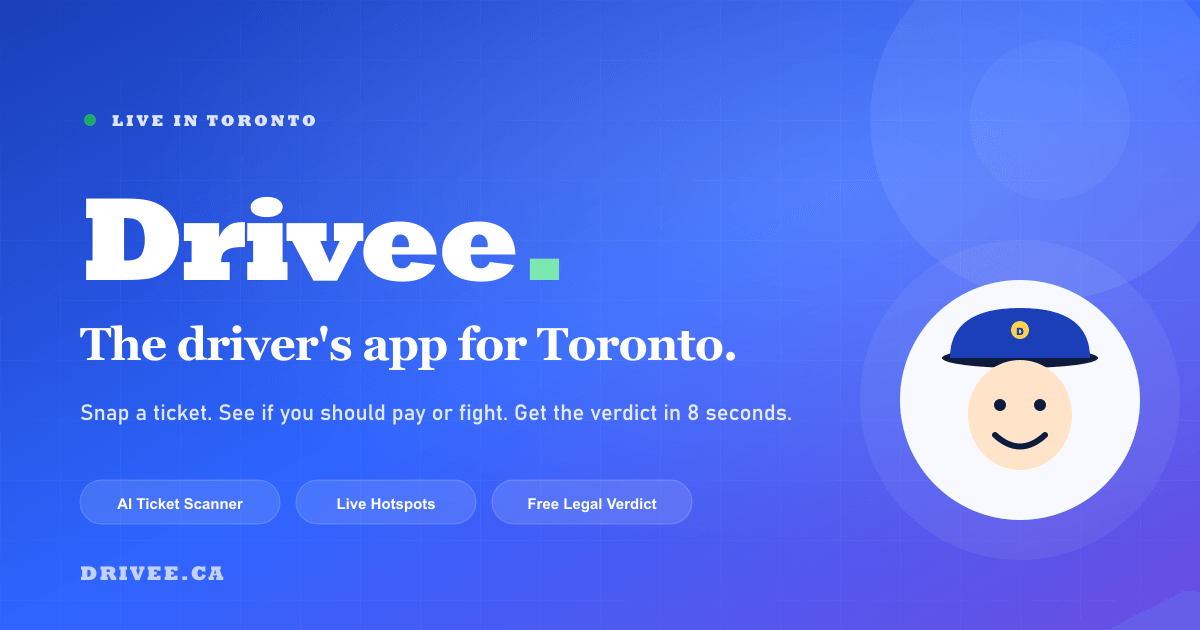
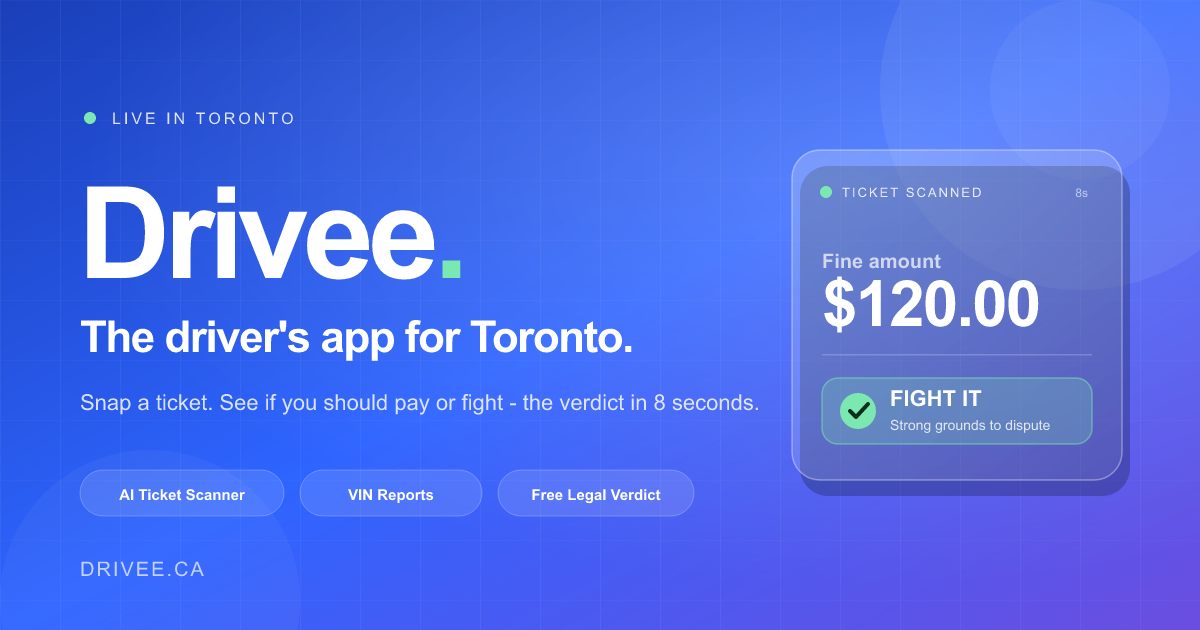
Refresh OG share image: drop mascot for a premium verdict card
- Redesign og-image: remove the cartoon officer, add a frosted-glass
  "ticket scanned -> $120 -> FIGHT IT" verdict card; refreshed pills
  (AI Ticket Scanner / VIN Reports / Free Legal Verdict), short dash
  in the subline. Rendered crisp at exactly 1200x630
- Bump og:image + twitter:image to ?v=2 to bust social/search caches

diff --git a/index.html b/index.html
@@ -62,7 +62,7 @@
   <meta property="og:title" content="Drivee — The driver's app for Toronto" />
   <meta property="og:description" content="Snap a parking or traffic ticket. AI tells you whether to pay or fight. Free, no ads." />
   <meta property="og:url" content="https://www.drivee.ca/" />
-  <meta property="og:image" content="https://www.drivee.ca/og-image.png" />
+  <meta property="og:image" content="https://www.drivee.ca/og-image.png?v=2" />
   <meta property="og:image:width" content="1200" />
   <meta property="og:image:height" content="630" />
   <meta property="og:image:alt" content="Drivee — Smiling parking-officer mascot with the tagline: The driver's app for Toronto." />
@@ -72,7 +72,7 @@
   <meta name="twitter:card" content="summary_large_image" />
   <meta name="twitter:title" content="Drivee — The driver's app for Toronto" />
   <meta name="twitter:description" content="Snap a parking or traffic ticket. AI tells you whether to pay or fight. Free, no ads." />
-  <meta name="twitter:image" content="https://www.drivee.ca/og-image.png" />
+  <meta name="twitter:image" content="https://www.drivee.ca/og-image.png?v=2" />
 
   <!-- Canonical -->
   <link rel="canonical" href="https://www.drivee.ca/" />

diff --git a/desktop.html b/desktop.html
@@ -12,7 +12,7 @@
 <meta property="og:title" content="Drivee — The driver's app for Toronto"/>
 <meta property="og:description" content="Snap a parking or traffic ticket. AI tells you whether to pay or fight. Free, no ads."/>
 <meta property="og:url" content="https://www.drivee.ca/"/>
-<meta property="og:image" content="https://www.drivee.ca/og-image.png"/>
+<meta property="og:image" content="https://www.drivee.ca/og-image.png?v=2"/>
 <meta property="og:image:width" content="1200"/>
 <meta property="og:image:height" content="630"/>
 <meta property="og:image:alt" content="Drivee — Smiling parking-officer mascot with the tagline: The driver's app for Toronto."/>
@@ -22,7 +22,7 @@
 <meta name="twitter:card" content="summary_large_image"/>
 <meta name="twitter:title" content="Drivee — The driver's app for Toronto"/>
 <meta name="twitter:description" content="Snap a parking or traffic ticket. AI tells you whether to pay or fight. Free, no ads."/>
-<meta name="twitter:image" content="https://www.drivee.ca/og-image.png"/>
+<meta name="twitter:image" content="https://www.drivee.ca/og-image.png?v=2"/>
 
 <!-- Canonical -->
 <link rel="canonical" href="https://www.drivee.ca/"/>
